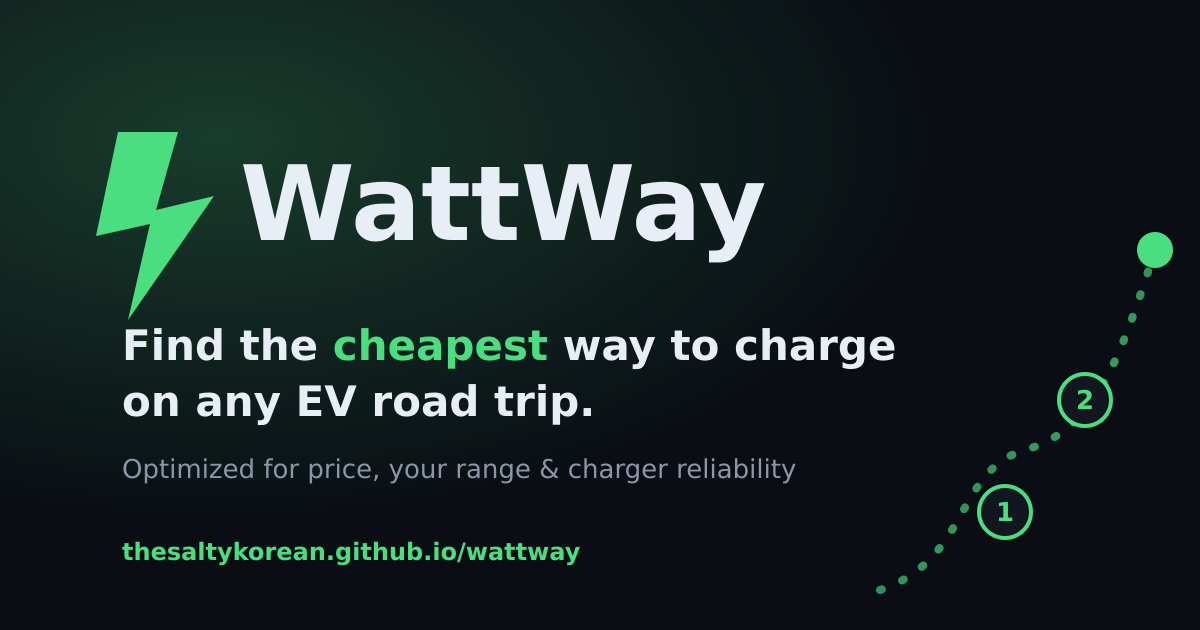
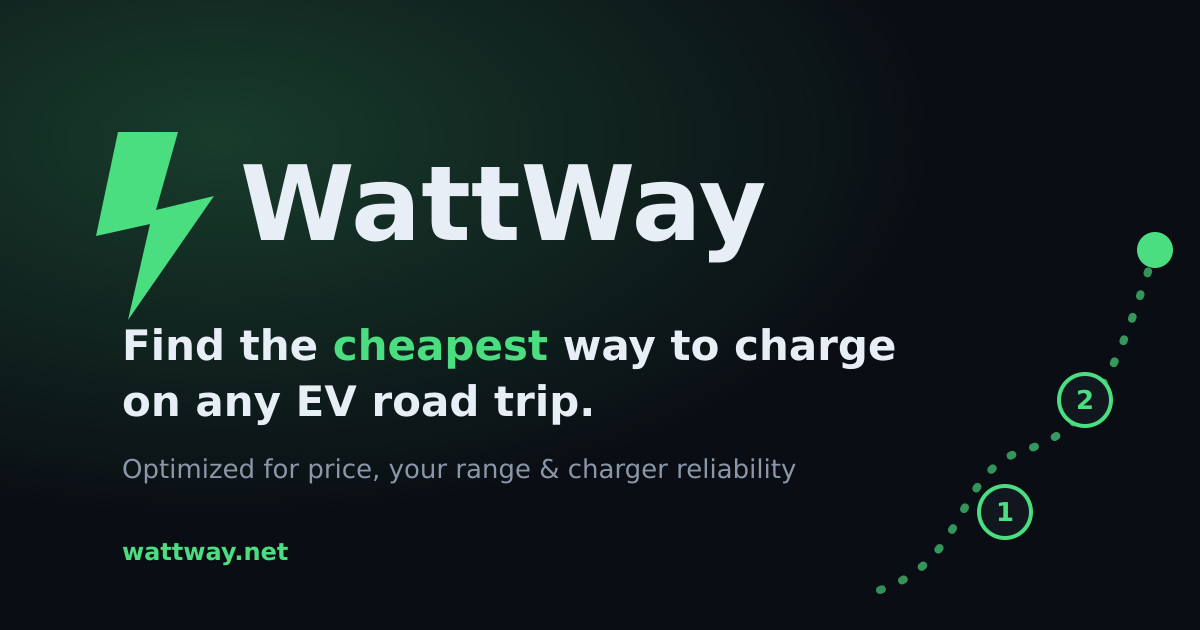
feat: configure custom domain wattway.net
Point the site at the newly-registered apex domain wattway.net instead of the
github.io/wattway project subpath:

- next.config.mjs: drop basePath. The custom domain serves from the apex, so
  assets must resolve from the site root (/_next/...), not /wattway/_next/...
- public/CNAME: wattway.net — GitHub Pages reads this from the deployed artifact
  and sets the custom domain automatically on the next Actions deploy.
- app/layout.tsx: SITE_URL / metadataBase -> https://wattway.net/ so OG/Twitter
  cards and canonical URLs use the new domain (og:url and og:image verified as
  https://wattway.net/... in the export).
- README + OG share image (scripts/generate-og.mjs): update the shown URL.

Also updated out-of-band (not code): the Google Maps API key's referrer
allowlist now includes https://wattway.net/* and https://www.wattway.net/*
(github.io + localhost kept), so Maps keeps working on the new origin.

tsc + static export build verified clean; confirmed CNAME ships in out/, no
/wattway/ paths leak into the HTML, and asset hrefs are root-relative.

DNS records still need to be added at the registrar (apex A/AAAA -> GitHub
Pages IPs, www CNAME -> thesaltykorean.github.io) — that's a manual step.

Changed region(s): [[0.0925, 0.8444, 0.4933, 0.9048]]

diff --git a/app/layout.tsx b/app/layout.tsx
@@ -1,14 +1,14 @@
 import type { Metadata } from "next";
 import "./globals.css";
 
-const SITE_URL = "https://thesaltykorean.github.io/wattway/";
+const SITE_URL = "https://wattway.net/";
 const OG_DESCRIPTION =
   "Find the cheapest realistic way to charge on any EV road trip — a minimal sequence of stops picked from live network prices, your memberships, charger power and reliability, and your car's range.";
 
 export const metadata: Metadata = {
   // Absolute base for social-card crawlers, which can't resolve relative URLs.
-  // Includes the /wattway base path so the OG image resolves to the file served
-  // on GitHub Pages (public/og-image.png -> {SITE_URL}og-image.png).
+  // The site serves from the apex of wattway.net, so the OG image resolves to
+  // the file at the site root (public/og-image.png -> {SITE_URL}og-image.png).
   metadataBase: new URL(SITE_URL),
   title: "WattWay — Cost-Optimized EV Trip Planner",
   description:

diff --git a/README.md b/README.md
@@ -3,8 +3,8 @@
 **Cost-optimized EV trip planner.** Most EV apps find chargers — WattWay finds the *cheapest realistic* way to get from A to B, picking a minimal sequence of charging stops based on network prices, membership discounts, charger power and reliability, detour distance, and your vehicle's range.
 
 **Lightweight by design.** WattWay is a fully static site — no backend, no
-database, no server costs. It's hosted on GitHub Pages
-(**[thesaltykorean.github.io/wattway](https://thesaltykorean.github.io/wattway/)**),
+database, no server costs. It's hosted on GitHub Pages at
+(**[wattway.net](https://wattway.net/)**),
 and your browser does all the work: routing, charger lookup, and stop
 optimization run entirely client-side against the Google Maps and Open Charge
 Map APIs.